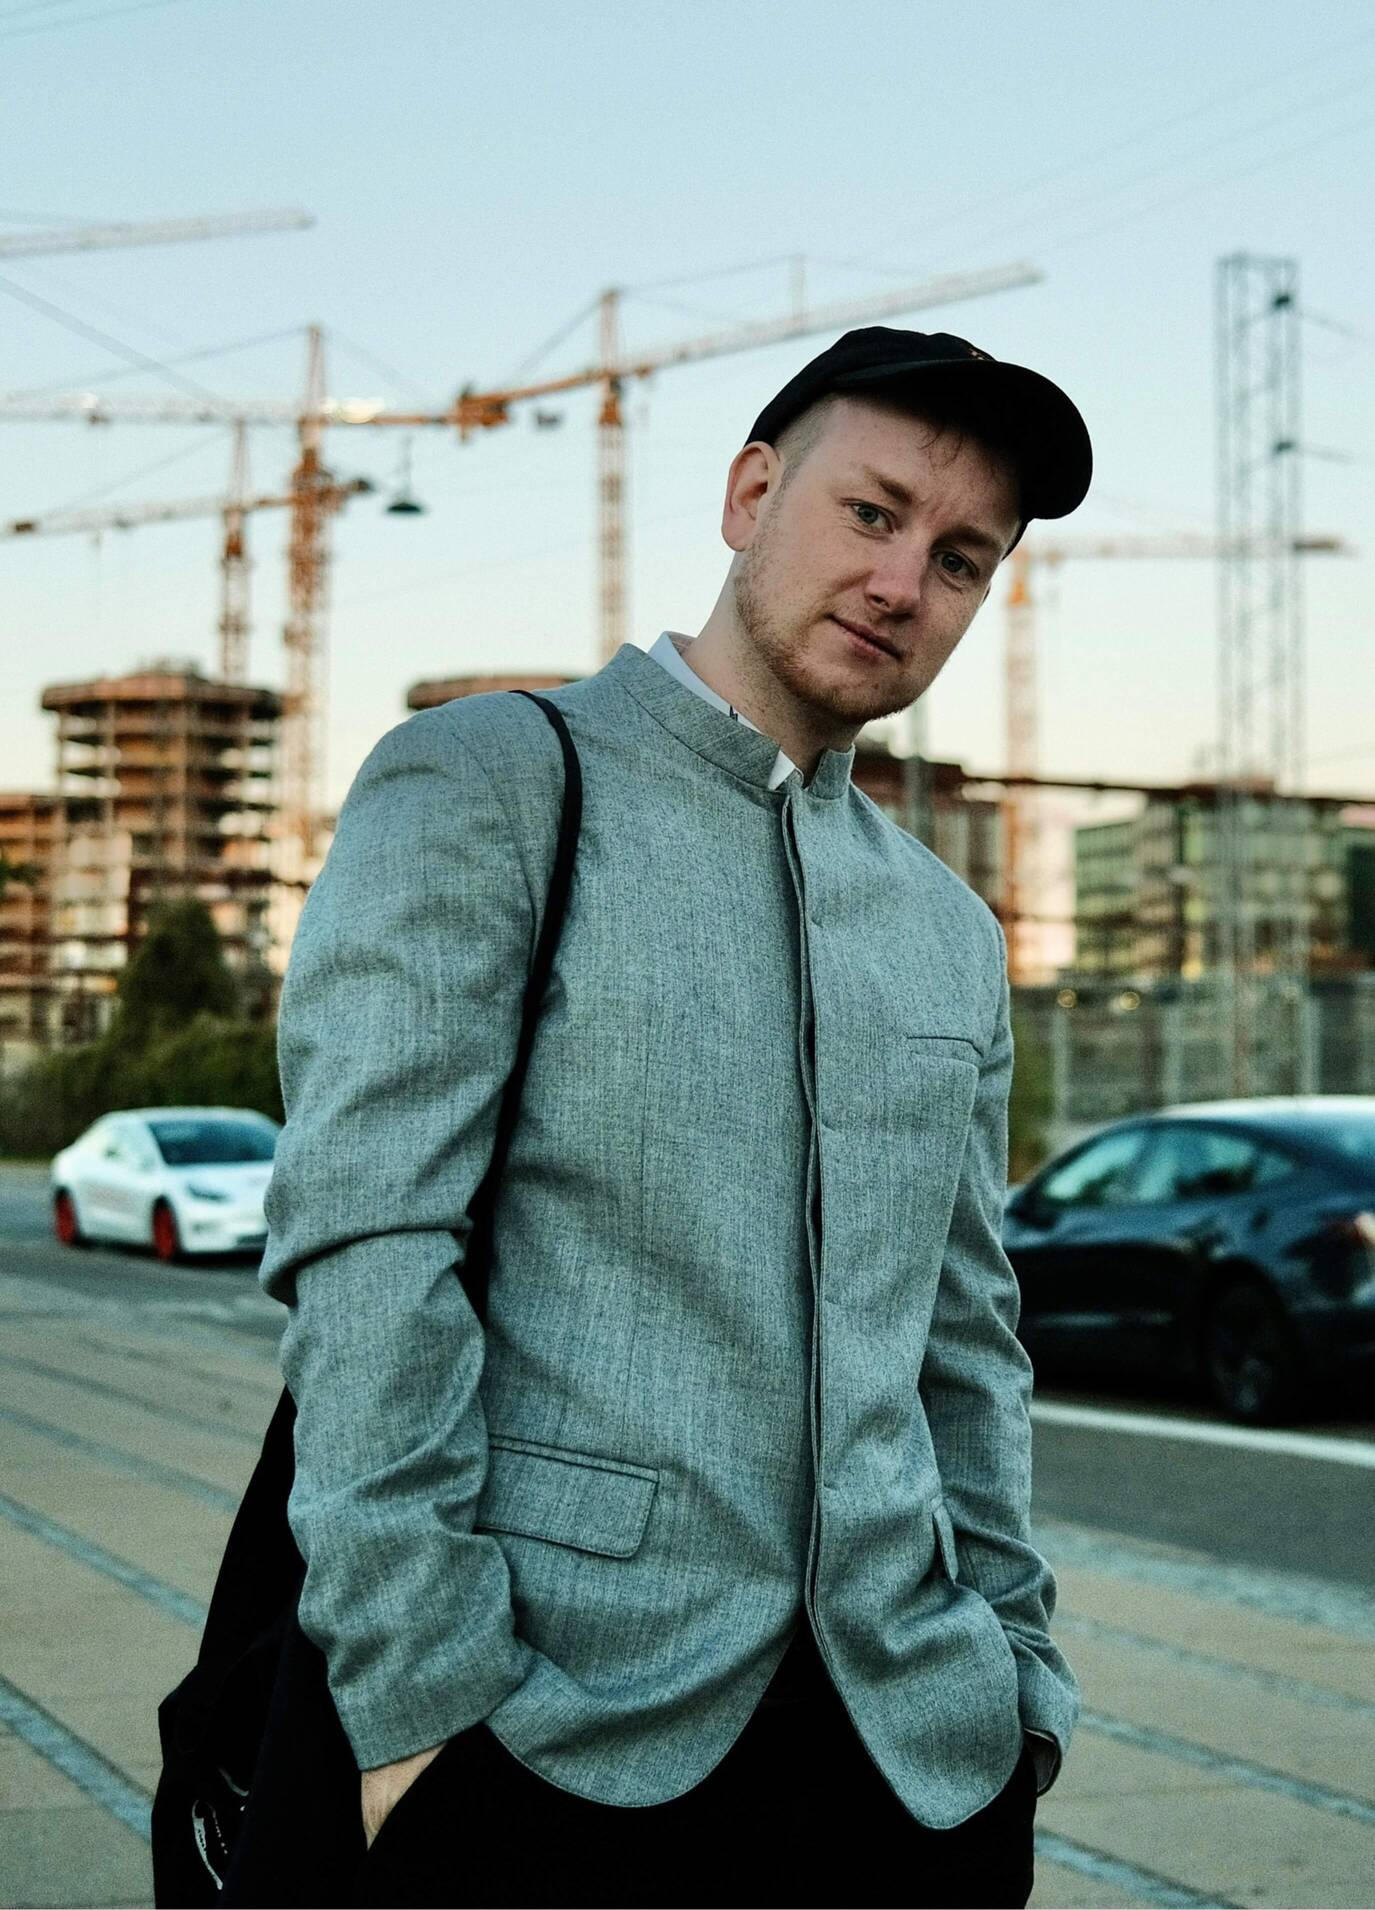
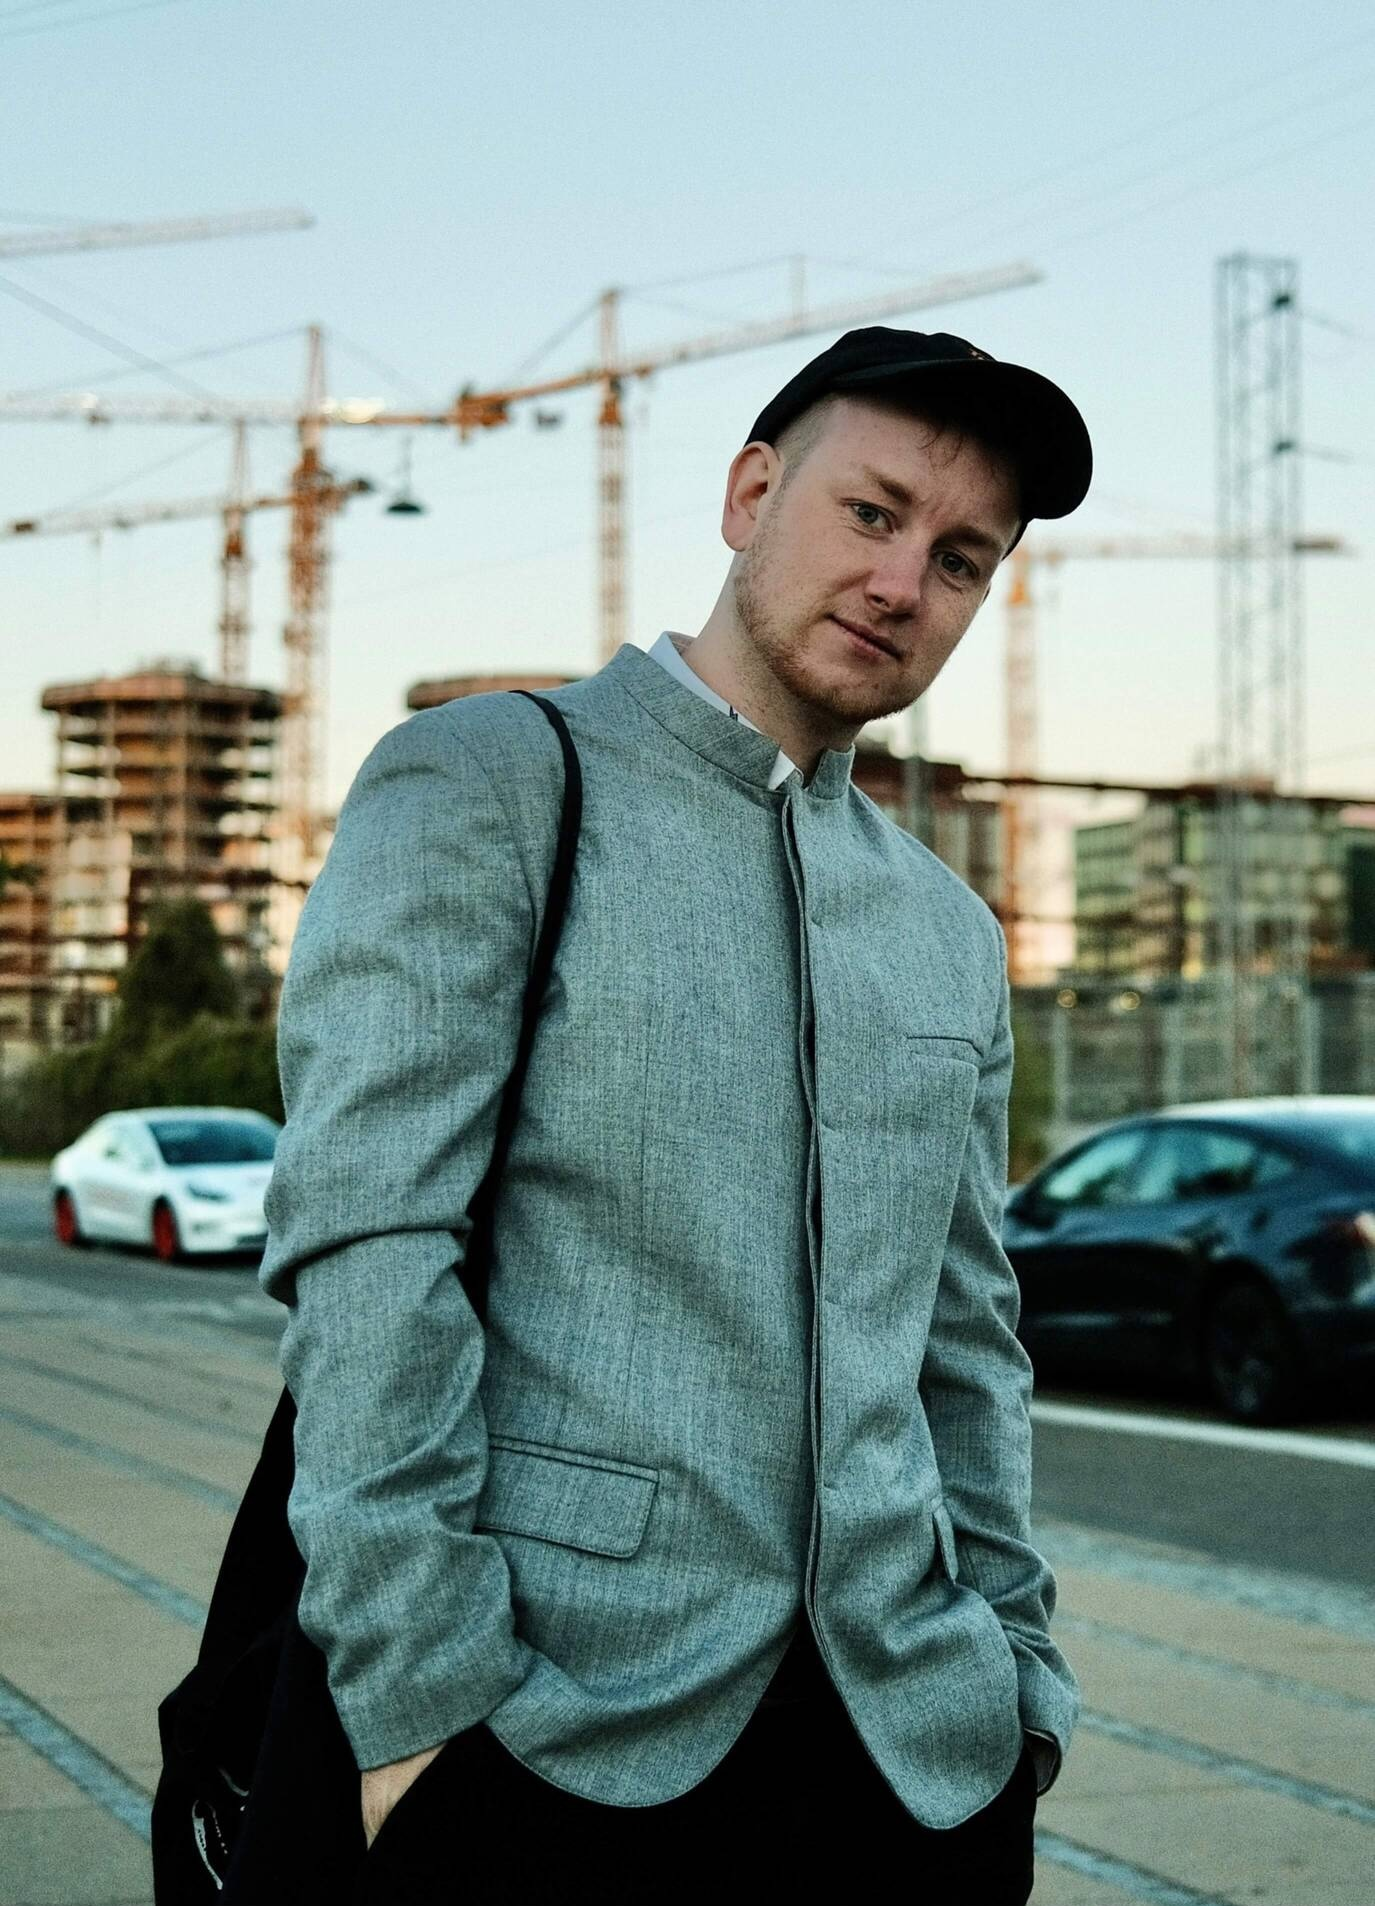
Update overlay image for wide monitors

diff --git a/src/components/MenuOverlay.jsx b/src/components/MenuOverlay.jsx
@@ -93,7 +93,7 @@ export default function MenuOverlay({ isMenuOpen, handleMenuToggle }) {
               <img
                 src="/assets/images/Portrait Standing.jpg"
                 alt=""
-                className="w-full h-full object-cover object-[60%_20%]"
+                className="w-full h-full object-cover object-[60%_20%] max-w-[400px]"
               />
             </div>
           </div>
